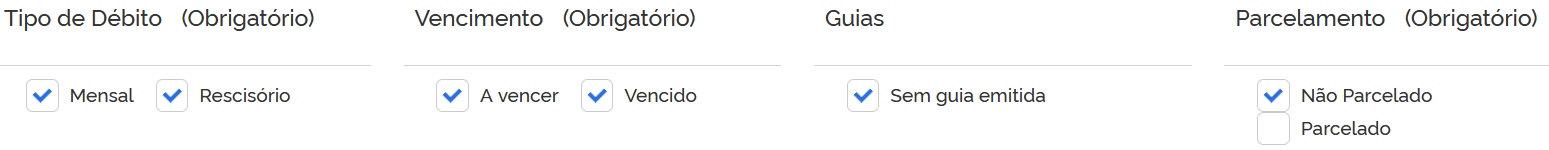
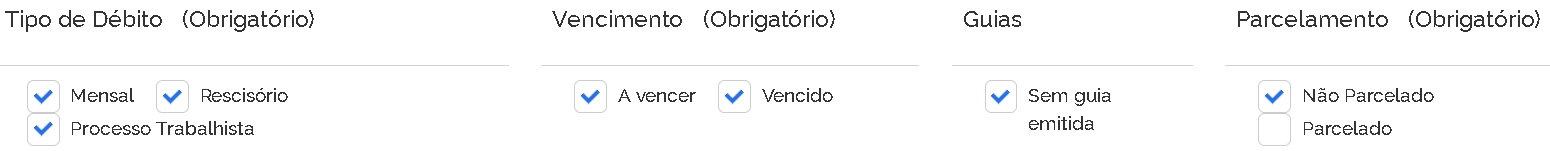
atualizado

diff --git a/src/services/fgts_digital_site.py b/src/services/fgts_digital_site.py
@@ -605,13 +605,18 @@ def consultar_fgts_digital_site(empresa_id, db_config, pasta_destino, abrir_nave
     esperar(1.5, check_stop_callback)
     verificar_parada(check_stop_callback)
 
-    pyautogui.click(pos_parametrizacao[0] - 190, pos_parametrizacao[1] + 20)
+    pyautogui.click(pos_parametrizacao[0] - 630, pos_parametrizacao[1] + 40)
     esperar(1.5, check_stop_callback)
     verificar_parada(check_stop_callback)
 
-    pyautogui.click(pos_parametrizacao[0] + 90, pos_parametrizacao[1] + 20)
+    pyautogui.click(pos_parametrizacao[0] - 40, pos_parametrizacao[1] + 20)
+    esperar(1.5, check_stop_callback)
+    verificar_parada(check_stop_callback)
+
+    pyautogui.click(pos_parametrizacao[0] + 210, pos_parametrizacao[1] + 20)
     esperar(1.5, check_stop_callback)
     verificar_parada(check_stop_callback)  
+    time.sleep(2)  
 
     # Scroll para baixo
     pyautogui.scroll(-100)
@@ -737,11 +742,12 @@ def consultar_fgts_digital_site(empresa_id, db_config, pasta_destino, abrir_nave
         
         pyautogui.scroll(-250)  
         verificar_parada(check_stop_callback)
-
+        time.sleep(2)
         pos_btn_pesquisar = localizar_btn_pesquisar2()
         if pos_btn_pesquisar:
             pyautogui.click(pos_btn_pesquisar[0] + 150, pos_btn_pesquisar[1])
             esperar(3, check_stop_callback)
+
 
         pos_itens_consignado = localizar_itens_consignado()
         if pos_itens_consignado:
@@ -945,7 +951,8 @@ def consultar_fgts_digital_site(empresa_id, db_config, pasta_destino, abrir_nave
         
         esperar(5, check_stop_callback)
         verificar_parada(check_stop_callback)
-        
+        #Espera abrir o pdf
+        time.sleep(10)
         print("🖨 Iniciando processo de impressão (PDF)...")
         esperar(2, check_stop_callback)
         
@@ -954,6 +961,7 @@ def consultar_fgts_digital_site(empresa_id, db_config, pasta_destino, abrir_nave
         esperar(0.5, check_stop_callback)
 
         pyautogui.hotkey("ctrl", "p")
+        time.sleep(5)
         esperar(5, check_stop_callback) # Aumentado tempo para carregar diálogo do browser
         pyautogui.press("enter")
         esperar(3, check_stop_callback)
@@ -962,7 +970,7 @@ def consultar_fgts_digital_site(empresa_id, db_config, pasta_destino, abrir_nave
         # Normaliza o caminho para usar barras normais (evita erro com barras invertidas)
         pasta_destino_corrigida = os.path.abspath(pasta_destino).replace('/', '\\')
         pyperclip.copy(pasta_destino_corrigida)
-        time.sleep(1)
+        time.sleep(3)
 
         # corrigir competencia substituir barra po _
         competencia_corrigida = competencia.replace('/', '_')
@@ -1007,7 +1015,7 @@ def consultar_fgts_digital_site(empresa_id, db_config, pasta_destino, abrir_nave
 
         time.sleep(3)
 
-        # fechar a guia
+        # fechar a guia para ir para proxima consulta
         pyautogui.hotkey("ctrl", "w")
         time.sleep(3)
     else:
@@ -1020,7 +1028,6 @@ def consultar_fgts_digital_site(empresa_id, db_config, pasta_destino, abrir_nave
     pyautogui.click(pos_btn_fgts_digital)
     verificar_parada(check_stop_callback)
     time.sleep(3)
-
 
     # Localiza botao trocar perfil
     pos_btn_trocar_perfil = localizar_btn_trocar_perfil()

diff --git a/tests/test_parametrizacao.py b/tests/test_parametrizacao.py
@@ -18,25 +18,29 @@ def check_stop_callback():
 def test_fluxo_final():
     time.sleep(7)
     try:
-        print("📁 Localizando parametrização...")
-        pos_parametrizacao = localizar_parametros()
-        pyautogui.click(pos_parametrizacao[0] - 610, pos_parametrizacao[1] + 20)
-        esperar(1.5, check_stop_callback)
-        verificar_parada(check_stop_callback)
+        # print("📁 Localizando parametrização...")
+        # pos_parametrizacao = localizar_parametros()
+        # pyautogui.click(pos_parametrizacao[0] - 610, pos_parametrizacao[1] + 20)
+        # esperar(1.5, check_stop_callback)
+        # verificar_parada(check_stop_callback)
 
-        pyautogui.click(pos_parametrizacao[0] - 190, pos_parametrizacao[1] + 20)
-        esperar(1.5, check_stop_callback)
-        verificar_parada(check_stop_callback)
+        # pyautogui.click(pos_parametrizacao[0] - 630, pos_parametrizacao[1] + 40)
+        # esperar(1.5, check_stop_callback)
+        # verificar_parada(check_stop_callback)
 
-        pyautogui.click(pos_parametrizacao[0] + 90, pos_parametrizacao[1] + 20)
-        esperar(1.5, check_stop_callback)
-        verificar_parada(check_stop_callback)  
-        time.sleep(2)
+        # pyautogui.click(pos_parametrizacao[0] - 40, pos_parametrizacao[1] + 20)
+        # esperar(1.5, check_stop_callback)
+        # verificar_parada(check_stop_callback)
 
-        # pos_btn_pesquisar = localizar_btn_pesquisar2()
-        # if pos_btn_pesquisar:
-        #     pyautogui.click(pos_btn_pesquisar[0] + 150, pos_btn_pesquisar[1])
-        #     esperar(3, check_stop_callback)
+        # pyautogui.click(pos_parametrizacao[0] + 210, pos_parametrizacao[1] + 20)
+        # esperar(1.5, check_stop_callback)
+        # verificar_parada(check_stop_callback)  
+        # time.sleep(2)
+
+        pos_btn_pesquisar = localizar_btn_pesquisar2()
+        if pos_btn_pesquisar:
+            pyautogui.click(pos_btn_pesquisar[0] + 150, pos_btn_pesquisar[1])
+            esperar(3, check_stop_callback)
 
         try:
             print("📁 Localizando itens consignado...")

diff --git a/test_db_query.py b/test_db_query.py
@@ -1,0 +1,54 @@
+import mysql.connector
+import json
+
+config = {
+    "host": "mysql831.umbler.com",
+    "port": 41890,
+    "user": "vexmabit",
+    "password": "vexmabit10",
+    "database": "vex"
+}
+
+try:
+    print("Conectando...")
+    conn = mysql.connector.connect(**config)
+    print("Conectado com sucesso!")
+    
+    cursor = conn.cursor(dictionary=True)
+    query = """
+        SELECT 
+            e.id as empresa_id,
+            e.codigo,
+            e.cnpj,
+            e.razao,
+            ed.carteira,
+            r.valorFgts,
+            r.valorFgts13,
+            r.valorConsignado,
+            r.totalBase,
+            r.valorGuiaFgts,
+            r.valorGuiaFgts13,
+            r.valorGuiaConsignado,
+            r.totalGuia,
+            r.status,
+            r.statusOnvio,
+            r.competenciaInicial,
+            r.competenciaFinal,
+            r.vencimentoGuia
+        FROM empresas e
+        INNER JOIN roboFgts r
+            ON r.empresaId = e.id
+        LEFT JOIN empresa_departamento ed
+            ON ed.empresaId = e.id AND ed.departamentoId = 2
+    """
+    print("Executando query...")
+    cursor.execute(query)
+    print("Buscando resultados...")
+    resultados = cursor.fetchall()
+    print(f"Empresas encontradas: {len(resultados)}")
+    cursor.close()
+    conn.close()
+except Exception as e:
+    import traceback
+    traceback.print_exc()
+    print(f"Erro: {e}")

diff --git a/gui.py b/gui.py
@@ -3,6 +3,24 @@ from tkinter import filedialog, messagebox, scrolledtext, ttk
 import threading
 import sys
 import os
+import traceback
+
+log_file_path = os.path.join(os.path.dirname(os.path.abspath(sys.argv[0])), 'error_crash.log')
+try:
+    log_file = open(log_file_path, 'a')
+    sys.stdout = log_file
+    sys.stderr = log_file
+except Exception:
+    pass
+
+def crash_handler(type, value, tb):
+    try:
+        with open(log_file_path, 'a') as f:
+            traceback.print_exception(type, value, tb, file=f)
+    except:
+        pass
+sys.excepthook = crash_handler
+
 import json
 import datetime
 import time
@@ -728,7 +746,8 @@ class BotGUI:
                                 'port': int(self.db_port.get()) if self.db_port.get().isdigit() else 3306,
                                 'user': self.db_user.get(),
                                 'password': self.db_pass.get(),
-                                'database': self.db_name.get()
+                                'database': self.db_name.get(),
+                                'use_pure': True
                             }
                             executar_consulta_em_lote(
                                 mysql_conf,

diff --git a/test_bot.py b/test_bot.py
@@ -1,0 +1,32 @@
+import json
+import sys
+
+# Força UTF-8 para evitar erro de charmap
+if hasattr(sys.stdout, 'reconfigure'):
+    sys.stdout.reconfigure(encoding='utf-8')
+if hasattr(sys.stderr, 'reconfigure'):
+    sys.stderr.reconfigure(encoding='utf-8')
+
+from src.bot_pyautogui import executar_consulta_em_lote
+
+# Tenta replicar o que gui.py faz
+config_file = "config_multi.json"
+with open(config_file, "r") as f:
+    config = json.load(f)
+
+mysql_config = config.get("mysql_config", {})
+# Igual ao que está em gui.py:
+mysql_conf = {
+    'host': mysql_config.get("host", ""),
+    'port': int(mysql_config.get("port", "3306")),
+    'user': mysql_config.get("user", ""),
+    'password': mysql_config.get("pass", ""),
+    'database': mysql_config.get("database", "")
+}
+
+print(f"Conf passada: {mysql_conf}")
+executar_consulta_em_lote(
+    mysql_conf,
+    "pasta_teste",
+    tipo_consulta="FGTS Digital Site"
+)

diff --git a/test_db.py b/test_db.py
@@ -1,0 +1,20 @@
+import mysql.connector
+import json
+
+config = {
+    "host": "mysql831.umbler.com",
+    "port": "41890",
+    "user": "vexmabit",
+    "password": "vexmabit10",
+    "database": "vex"
+}
+
+try:
+    print("Conectando...")
+    conn = mysql.connector.connect(**config)
+    print("Conectado com sucesso!")
+    conn.close()
+except Exception as e:
+    import traceback
+    traceback.print_exc()
+    print(f"Erro: {e}")

diff --git a/src/bot_pyautogui.py b/src/bot_pyautogui.py
@@ -88,6 +88,8 @@ def executar_consulta_em_lote(caminho_arquivo_xlsx, pasta_destino, tipo_consulta
                     dados_empresas.append([str(cnpj), str(nome), str(codigo), carteira, str(competencia), None, None, 0.0, "", ""])
 
     except Exception as e:
+        import traceback
+        traceback.print_exc()
         print(f"Erro ao ler o arquivo: {e}")
         return
     

diff --git a/src/utils/database_handler.py b/src/utils/database_handler.py
@@ -12,6 +12,9 @@ class DatabaseHandler:
         # Normalização de chaves para mysql.connector
         if self.config and 'pass' in self.config and 'password' not in self.config:
             self.config['password'] = self.config.pop('pass')
+            
+        if self.config:
+            self.config['use_pure'] = True
 
         self.connection = None
 

diff --git a/test_empty.py b/test_empty.py
@@ -1,0 +1,16 @@
+import mysql.connector
+
+config = {
+    "host": "",
+    "port": 41890,
+    "user": "",
+    "password": "",
+    "database": ""
+}
+
+try:
+    conn = mysql.connector.connect(**config)
+except Exception as e:
+    import traceback
+    traceback.print_exc()
+    print(f"Erro: {e}")
